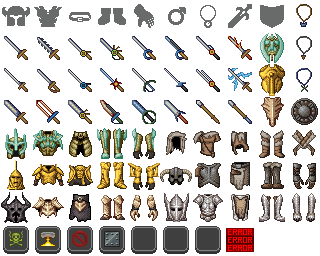
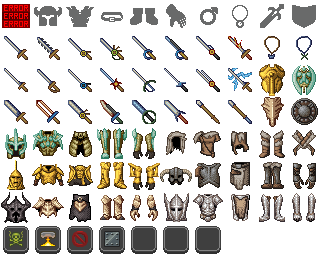
New Id System

diff --git a/src/view.py b/src/view.py
@@ -2,7 +2,7 @@ import pygame
 from pygame.locals import RESIZABLE
 
 from src.item import Item
-
+from src.items_id import items_id
 
 def load_tile_table(filename, nbx: int, nby: int):
     """
@@ -24,23 +24,6 @@ def load_tile_table(filename, nbx: int, nby: int):
 
 
 class View:
-    items_id = {
-        "error": 77,
-        "no_helmet": 0,
-        "no_chest": 1,
-        "no_legs": 2,
-        "no_boots": 3,
-        "no_gloves": 4,
-        "no_ring": 5,
-        "no_amulet": 6,
-        "no_weapon": 7,
-        "no_shield": 8,
-        "attack_logo": 78,
-        "amulet1": 9,
-        "amulet2": 19,
-        "amulet3": 29
-    }
-
     window = None
     wwidth, wheight = 0, 0
     # Assets
@@ -257,7 +240,7 @@ class View:
 
         # Logo d'attaque normale
         self.window.blit(
-            pygame.transform.scale(self.items_tiles[self.items_id["attack_logo"]],
+            pygame.transform.scale(self.items_tiles[items_id["attack_logo"]],
                                    (int(size_cursor_width), int(size_cursor_height))), (
                 int(self.wwidth * 0.60 + size_width * 22 / temptx),
                 int(starty + size_width * 4 / temptx)))
@@ -299,7 +282,7 @@ class View:
 
         # amulet
         if char.inventory.amulet is None:
-            icon_id = self.items_id["no_amulet"]
+            icon_id = items_id["no_amulet"]
         else:
             icon_id = char.inventory.amulet.get_icon_id()
         self.window.blit(
@@ -308,7 +291,7 @@ class View:
              int(self.wheight * 0.30 + size_width * 4 / tempx)))
         # ring
         if char.inventory.ring is None:
-            icon_id = self.items_id["no_ring"]
+            icon_id = items_id["no_ring"]
         else:
             icon_id = char.inventory.ring.get_icon_id()
         self.window.blit(
@@ -317,7 +300,7 @@ class View:
              int(self.wheight * 0.30 + 3 * size_width * 4 / tempx + item_height)))
         # Helmet
         if char.inventory.helmet is None:
-            icon_id = self.items_id["no_helmet"]
+            icon_id = items_id["no_helmet"]
         else:
             icon_id = char.inventory.helmet.get_icon_id()
         self.window.blit(
@@ -326,7 +309,7 @@ class View:
              int(self.wheight * 0.30 + size_width * 4 / tempx)))
         # Chest
         if char.inventory.chest is None:
-            icon_id = self.items_id["no_chest"]
+            icon_id = items_id["no_chest"]
         else:
             icon_id = char.inventory.chest.get_icon_id()
         self.window.blit(
@@ -335,7 +318,7 @@ class View:
              int(self.wheight * 0.30 + 3 * size_width * 4 / tempx + item_height)))
         # Legs
         if char.inventory.legs is None:
-            icon_id = self.items_id["no_legs"]
+            icon_id = items_id["no_legs"]
         else:
             icon_id = char.inventory.legs.get_icon_id()
         self.window.blit(
@@ -344,7 +327,7 @@ class View:
              int(self.wheight * 0.30 + 5 * size_width * 4 / tempx + 2 * item_height)))
         # Boots
         if char.inventory.boots is None:
-            icon_id = self.items_id["no_boots"]
+            icon_id = items_id["no_boots"]
         else:
             icon_id = char.inventory.boots.get_icon_id()
         self.window.blit(
@@ -353,7 +336,7 @@ class View:
              int(self.wheight * 0.30 + 7 * size_width * 4 / tempx + 3 * item_height)))
         # Gloves
         if char.inventory.gloves is None:
-            icon_id = self.items_id["no_gloves"]
+            icon_id = items_id["no_gloves"]
         else:
             icon_id = char.inventory.gloves.get_icon_id()
         self.window.blit(
@@ -362,7 +345,7 @@ class View:
              int(self.wheight * 0.30 + 3 * size_width * 4 / tempx + item_height)))
         # Weapon
         if char.inventory.weapon is None:
-            icon_id = self.items_id["no_weapon"]
+            icon_id = items_id["no_weapon"]
         else:
             icon_id = char.inventory.weapon.get_icon_id()
         self.window.blit(
@@ -371,7 +354,7 @@ class View:
              int(self.wheight * 0.30 + 5 * size_width * 4 / tempx + 2 * item_height)))
         # Weapon
         if char.inventory.shield is None:
-            icon_id = self.items_id["no_shield"]
+            icon_id = items_id["no_shield"]
         else:
             icon_id = char.inventory.shield.get_icon_id
         self.window.blit(

diff --git a/src/items_id.py b/src/items_id.py
@@ -1,0 +1,30 @@
+items_id = {
+    "error": 0,
+    "no_helmet": 1,
+    "no_chest": 2,
+    "no_legs": 3,
+    "no_boots": 4,
+    "no_gloves": 5,
+    "no_ring": 6,
+    "no_amulet": 7,
+    "no_weapon": 8,
+    "no_shield": 9,
+    "attack_logo": 78,
+
+    "amulets": {
+        "blue": 18,
+        "green": 19
+    },
+
+    "swords": [10, 11, 12, 13, 14, 15, 16, 17, 20, 21, 22, 23, 24, 25, 26, 27, 30, 31, 32, 33, 34, 35, 36, 37],
+
+    "shields": [29, 28, 38, 39],
+
+    "helmets": [40, 45, 50, 55, 60, 65],
+    "chests": [41, 46, 51, 56, 61, 66],
+    "legs": [42, 47, 52, 57, 62, 67],
+    "boots": [43, 48, 53, 58, 63, 68],
+    "gloves": [44, 49, 54, 59, 64, 69],
+
+    "spellbooks": [70, 71, 72, 73]
+}
